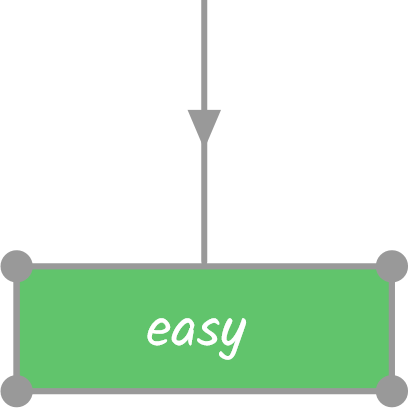
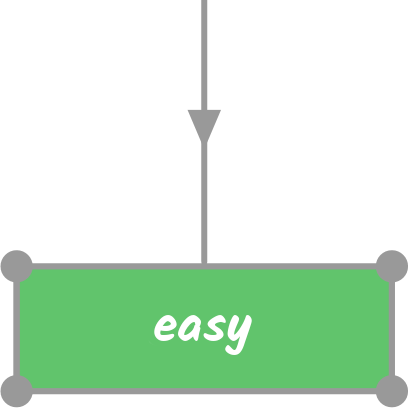
change button images, swipeball color change

Changed region(s): [[0.3521, 0.7628, 0.6161, 0.8802]]

diff --git a/client/src/components/Flashcard.js b/client/src/components/Flashcard.js
@@ -18,9 +18,9 @@ import FlexibleContentWrapper from './FlexibleContentWrapper'
 import ResizableImage from './ResizableImage'
 
 import answerButtonImage1 from '../img/button-easy.png'
-import answerButtonImage2 from '../img/button-medium.png'
-import answerButtonImage3 from '../img/button-hard.png'
-import answerButtonImage4 from '../img/button-veryhard.png'
+import answerButtonImage2 from '../img/button-correct.png'
+import answerButtonImage3 from '../img/button-wrong.png'
+import answerButtonImage4 from '../img/button-noClue.png'
 import LevelUpWrapper from './LevelUpWrapper'
 
 class Flashcard extends React.Component {

diff --git a/mobileClient/components/SwipeBall.js b/mobileClient/components/SwipeBall.js
@@ -19,9 +19,9 @@ import { mutationConnectionHandler } from './NoInternet'
 const defaultBallColors = ['#7c45d2', '#672f92']
 const ballColors = {
   top: ['#71b9d3', '#5a9ab4'],
-  right: ['#ff8533', '#e17132'],
+  left: ['#ff8533', '#e17132'],
   bottom: ['#c1272d', '#972326'],
-  left: ['#62c46c', '#3f873f']
+  right: ['#62c46c', '#3f873f']
 }
 
 class SwipeBall extends React.Component {
